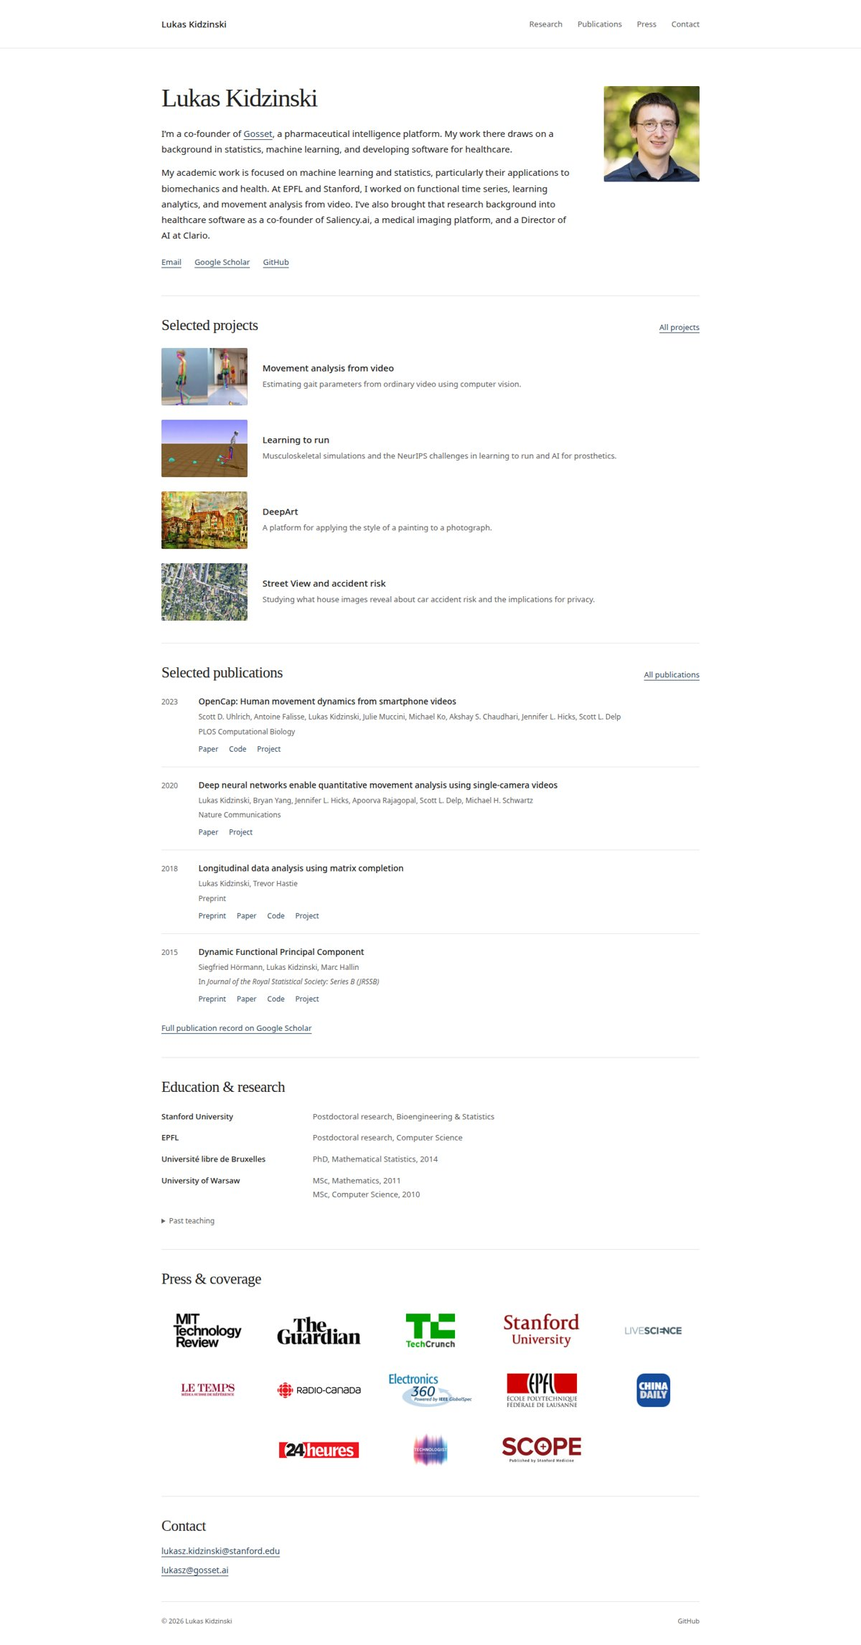
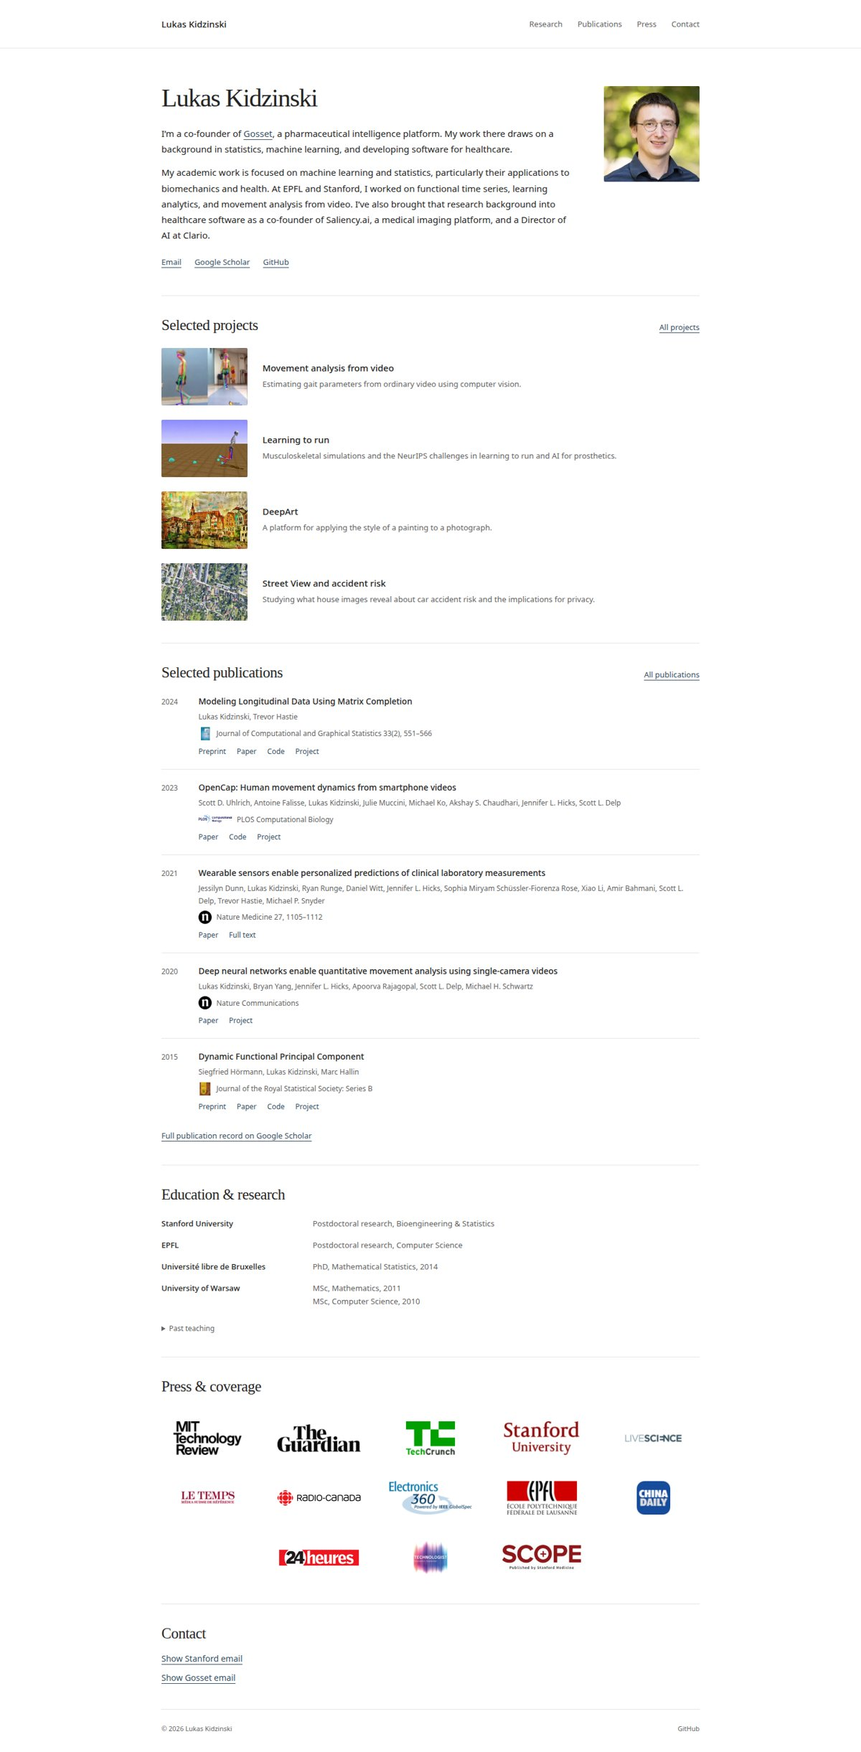
Protect contact links and refresh publication records

diff --git a/static/css/site.css b/static/css/site.css
@@ -33,8 +33,8 @@ h1, h2, h3 { font-weight: 500; line-height: 1.3; }
 .eyebrow { color: var(--muted); font-size: 12px; margin-bottom: 12px; }
 .accent { color: inherit; }
 .anchor-alias { display: block; scroll-margin-top: 24px; }
-.skip-link { position: fixed; top: -100px; left: 16px; padding: 10px 16px; z-index: 100; background: white; }
-.skip-link:focus { top: 12px; }
+.skip-link { position: fixed; top: 12px; left: 16px; width: 1px; height: 1px; overflow: hidden; clip-path: inset(50%); white-space: nowrap; z-index: 100; background: white; }
+.skip-link:focus { width: auto; height: auto; padding: 10px 16px; clip-path: none; }
 
 .site-header { border-bottom: 1px solid var(--line); }
 .header-inner { min-height: 80px; display: flex; align-items: center; justify-content: space-between; gap: 28px; }
@@ -74,7 +74,10 @@ summary { cursor: pointer; width: fit-content; }
 .publication-row h3 a { color: var(--ink); text-decoration: none; }
 .publication-row h3 a:hover { text-decoration: underline; }
 .publication-authors { color: var(--muted); font-size: 12px; line-height: 1.7; margin-top: 6px; }
-.publication-venue { color: var(--muted); font-size: 12px; margin-top: 3px; }
+.publication-venue { display: flex; align-items: center; gap: 8px; color: var(--muted); font-size: 12px; margin-top: 6px; }
+.journal-logo { width: 22px; height: 22px; flex: none; object-fit: contain; }
+.journal-logo--wordmark { width: 56px; }
+.citation-details { white-space: nowrap; }
 .publication-links { display: flex; flex-wrap: wrap; gap: 18px; margin-top: 8px; }
 .publication-links a { font-size: 12px; text-decoration: none; }
 .publication-links a:hover { text-decoration: underline; }
@@ -89,6 +92,9 @@ summary { cursor: pointer; width: fit-content; }
 .contact-section { padding-bottom: 40px; }
 .contact-section h2 { margin-bottom: 12px; }
 .contact-email { overflow-wrap: anywhere; font-size: 14px; }
+.email-reveal { border: 0; padding: 0; background: none; color: var(--link); font-size: 14px; text-decoration: underline; text-underline-offset: 4px; cursor: pointer; line-height: inherit; }
+.email-reveal:hover { color: #111; }
+.email-fallback { font-size: 14px; overflow-wrap: anywhere; }
 .contact-emails { list-style: none; margin: 0; padding: 0; }
 .contact-emails li + li { margin-top: 5px; }
 .site-footer { border-top: 1px solid var(--line); display: flex; justify-content: space-between; gap: 20px; padding-block: 22px 30px; font-size: 11px; color: var(--muted); }

diff --git a/layouts/home.html b/layouts/home.html
@@ -6,7 +6,7 @@
   <div class="intro-copy">
     <p id="work">I’m a co-founder of <a href="https://gosset.ai/">Gosset</a>, a pharmaceutical intelligence platform. My work there draws on a background in statistics, machine learning, and developing software for healthcare.</p>
     <p>{{ $home.intro }}</p>
-    <div class="profile-links"><a href="mailto:{{ site.Params.email }}">Email</a><a href="{{ site.Params.scholar }}">Google Scholar</a><a href="{{ site.Params.github }}">GitHub</a></div>
+    <div class="profile-links"><a href="#contact">Email</a><a href="{{ site.Params.scholar }}">Google Scholar</a><a href="{{ site.Params.github }}">GitHub</a></div>
   </div>
 </section>
 
@@ -26,7 +26,7 @@
 <span class="anchor-alias" id="publications" aria-hidden="true"></span>
 <section class="home-section shell" id="publications_selected" aria-labelledby="publications-title">
   <div class="section-heading"><h2 id="publications-title">Selected publications</h2><a class="text-link" href="{{ "publication/" | relURL }}">All publications</a></div>
-  <div class="publication-list">{{ range slice "opencap" "gait-video" "fcomplete" "dfpca" }}{{ with site.GetPage (printf "/publication/%s" .) }}{{ partial "publication-row.html" . }}{{ end }}{{ end }}</div>
+  <div class="publication-list">{{ range slice "fcomplete" "opencap" "wearable-sensors" "gait-video" "dfpca" }}{{ with site.GetPage (printf "/publication/%s" .) }}{{ partial "publication-row.html" . }}{{ end }}{{ end }}</div>
   <a class="text-link scholar-link" href="{{ site.Params.scholar }}">Full publication record on Google Scholar</a>
 </section>
 
@@ -52,6 +52,9 @@
 
 <section class="home-section contact-section shell" id="contact" aria-labelledby="contact-title">
   <h2 id="contact-title">Contact</h2>
-  <ul class="contact-emails"><li><a class="contact-email" href="mailto:{{ site.Params.email }}">{{ site.Params.email }}</a></li><li><a class="contact-email" href="mailto:{{ site.Params.email_secondary }}">{{ site.Params.email_secondary }}</a></li></ul>
+  <ul class="contact-emails">
+    <li>{{ partial "email.html" (dict "address" site.Params.email "label" "Show Stanford email") }}</li>
+    <li>{{ partial "email.html" (dict "address" site.Params.email_secondary "label" "Show Gosset email") }}</li>
+  </ul>
 </section>
 {{ end }}

diff --git a/layouts/page.html b/layouts/page.html
@@ -1,7 +1,7 @@
 {{ define "main" }}
 <article class="article shell">
   <a class="text-link back-link" href="{{ .CurrentSection.RelPermalink }}">← All {{ if eq .Section "publication" }}publications{{ else }}projects{{ end }}</a>
-  <header class="article-header"><p class="eyebrow">{{ if eq .Section "publication" }}Publication{{ else }}Research archive{{ end }} / {{ .Date.Year }}</p><h1>{{ .Title }}</h1>{{ with .Params.authors }}<p class="article-authors">{{ delimit . ", " }}</p>{{ end }}{{ with .Params.publication }}<p class="publication-venue">{{ if eq . "Under review" }}Preprint{{ else }}{{ . | markdownify }}{{ end }}</p>{{ end }}{{ if eq .Section "publication" }}{{ partial "publication-links.html" . }}{{ end }}</header>
+  <header class="article-header"><p class="eyebrow">{{ if eq .Section "publication" }}Publication{{ else }}Research archive{{ end }} / {{ .Date.Year }}</p><h1>{{ .Title }}</h1>{{ with .Params.authors }}<p class="article-authors">{{ delimit . ", " }}</p>{{ end }}{{ partial "publication-venue.html" . }}{{ if eq .Section "publication" }}{{ partial "publication-links.html" . }}{{ end }}</header>
   {{ with .Params.header.image }}<img class="article-cover" src="{{ printf "img/%s" . | relURL }}" alt="" width="1000" height="500">{{ end }}
   <div class="prose">{{ with .Params.abstract }}<h2>Abstract</h2><p>{{ . | markdownify }}</p>{{ end }}{{ .Content }}</div>
   {{ with .Params.url_code }}<a class="button article-cta" href="{{ . }}">Source code</a>{{ end }}

diff --git a/static/js/site.js b/static/js/site.js
@@ -1,3 +1,18 @@
+// Decode contact details only after an explicit request to reveal them.
+document.querySelectorAll('[data-email]').forEach(button => {
+  button.addEventListener('click', () => {
+    const address = atob(button.dataset.email);
+    const link = document.createElement('a');
+    link.className = 'contact-email';
+    link.href = `mailto:${address}`;
+    link.textContent = address;
+    button.replaceWith(link);
+    link.focus();
+  });
+  button.hidden = false;
+  button.parentElement.querySelector('.email-fallback').hidden = true;
+});
+
 const search = document.querySelector('#publication-search');
 if (search) {
   const rows = [...document.querySelectorAll('[data-publication]')];

diff --git a/layouts/_partials/publication-row.html b/layouts/_partials/publication-row.html
@@ -1,4 +1,4 @@
 <article class="publication-row" data-publication>
   <span class="publication-year">{{ .Date.Year }}</span>
-  <div><h3><a href="{{ .RelPermalink }}">{{ .Title }}</a></h3><p class="publication-authors">{{ delimit .Params.authors ", " }}</p><p class="publication-venue">{{ if eq .Params.publication "Under review" }}Preprint{{ else }}{{ .Params.publication | markdownify }}{{ end }}</p>{{ partial "publication-links.html" . }}</div>
+  <div><h3><a href="{{ .RelPermalink }}">{{ .Title }}</a></h3><p class="publication-authors">{{ delimit .Params.authors ", " }}</p>{{ partial "publication-venue.html" . }}{{ partial "publication-links.html" . }}</div>
 </article>

diff --git a/layouts/_partials/publication-venue.html b/layouts/_partials/publication-venue.html
@@ -1,0 +1,6 @@
+{{ with .Params.publication }}
+<div class="publication-venue">
+  {{ with $.Params.journal }}{{ with index hugo.Data.journals . }}<img class="journal-logo{{ if eq .kind "wordmark" }} journal-logo--wordmark{{ end }}" src="{{ printf "img/journals/%s" .image | relURL }}" width="{{ .width }}" height="{{ .height }}" alt="" loading="lazy">{{ end }}{{ end }}
+  <span>{{ if eq . "Under review" }}Preprint{{ else }}{{ . | markdownify }}{{ end }}{{ with $.Params.citation_details }} <span class="citation-details">{{ . }}</span>{{ end }}</span>
+</div>
+{{ end }}

diff --git a/layouts/_partials/publication-links.html b/layouts/_partials/publication-links.html
@@ -1,6 +1,7 @@
 <div class="publication-links">
   {{ with .Params.url_preprint }}<a href="{{ . }}">Preprint</a>{{ end }}
   {{ with .Params.url_pdf }}<a href="{{ . }}">Paper</a>{{ end }}
+  {{ with .Params.url_fulltext }}<a href="{{ . }}">Full text</a>{{ end }}
   {{ with .Params.url_code }}<a href="{{ . }}">Code</a>{{ end }}
   {{ with .Params.url_project }}<a href="{{ . }}">Project</a>{{ end }}
   {{ with .Params.url_dataset }}<a href="{{ . }}">Data</a>{{ end }}

diff --git a/layouts/_partials/email.html b/layouts/_partials/email.html
@@ -1,0 +1,2 @@
+<span class="email-fallback">{{ replace (replace .address "@" " [at] ") "." " [dot] " }}</span>
+<button class="email-reveal" type="button" data-email="{{ .address | base64Encode }}" hidden>{{ .label }}</button>

diff --git a/content/publication/fcomplete.md b/content/publication/fcomplete.md
@@ -1,67 +1,24 @@
 +++
-title = "Longitudinal data analysis using matrix completion"
-date = "2018-11-15"
-
-# Authors. 
+title = "Modeling Longitudinal Data Using Matrix Completion"
+date = "2024-04-02"
 authors = ["Lukas Kidzinski", "Trevor Hastie"]
-
-# Publication type.
-# Legend:
-# 0 = Uncategorized
-# 1 = Conference proceedings
-# 2 = Journal
-# 3 = Work in progress
-# 4 = Technical report
-# 5 = Book
-# 6 = Book chapter
+publication = "Journal of Computational and Graphical Statistics"
+publication_short = "JCGS"
+journal = "jcgs"
+citation_details = "33(2), 551–566"
+published_online = "2023-11-15"
 publication_types = ["2"]
-
-# Publication name and optional abbreviated version.
-publication = "Under review"
-publication_short = "Under review"
-
-# Abstract and optional shortened version.
-abstract = "In clinical practice and biomedical research, measurements are often collected sparsely and irregularly in time while the data acquisition is expensive and inconvenient. Examples include measurements of spine bone mineral density, cancer growth through mammography or biopsy, a progression of defect of vision, or assessment of gait in patients with neurological disorders. Since the data collection is often costly and inconvenient, estimation of progression from sparse observations is of great interest for practitioners.From the statistical standpoint, such data is often analyzed in the context of a mixed-effect model where time is treated as both random and fixed effect. Alternatively, researchers analyze Gaussian processes or functional data where observations are assumed to be drawn from a certain distribution of processes. These models are flexible but rely on probabilistic assumptions and require very careful implementation. In this study, we propose an alternative elementary framework for analyzing longitudinal data, relying on matrix completion. Our method yields point estimates of progression curves by iterative application of the SVD. Our framework covers multivariate longitudinal data, regression and can be easily extended to other settings. We apply our methods to understand trends of progression of motor impairment in children with Cerebral Palsy. Our model approximates individual progression curves and explains 30% of the variability. Low-rank representation of progression trends enables discovering that subtypes of Cerebral Palsy exhibit different progression trends."
-abstract_short = "In clinical practice and biomedical research, measurements are often collected sparsely and irregularly in time while the data acquisition is expensive and inconvenient. We propose an alternative elementary framework for analyzing longitudinal data, relying on matrix completion."
-
-# Featured image thumbnail (optional)
-image_preview = ""
-
-# Is this a selected publication? (true/false)
 selected = true
-
-# Projects (optional).
-#   Associate this publication with one or more of your projects.
-#   Simply enter the filename (excluding '.md') of your project file in `content/project/`.
-projects = ["longitudinal-data"]
-
-# Links (optional).
-url_pdf = "https://arxiv.org/pdf/1809.08771.pdf"
+abstract_short = "Using matrix completion to estimate smooth trajectories from sparse, irregular longitudinal measurements."
+url_pdf = "https://doi.org/10.1080/10618600.2023.2257257"
 url_preprint = "https://arxiv.org/abs/1809.08771"
 url_code = "https://github.com/kidzik/fcomplete"
-# url_dataset = "#"
-url_project = "https://github.com/kidzik/fcomplete"
-# url_slides = "#"
-# url_video = "#"
-# url_poster = "#"
-# url_source = "#"
-
-# Custom links (optional).
-#   Uncomment line below to enable. For multiple links, use the form `[{...}, {...}, {...}]`.
-# url_custom = [{name = "Custom Link", url = "http://example.org"}]
-
-# Does the content use math formatting?
-math = true
-
-# Does the content use source code highlighting?
-highlight = true
-
-# Featured image
-# Place your image in the `static/img/` folder and reference its filename below, e.g. `image = "example.jpg"`.
-[header]
-# image = "headers/bubbles-wide.jpg"
-caption = "My caption :smile:"
-
+url_project = "/project/longitudinal-data/"
+projects = ["longitudinal-data"]
 +++
 
-<!-- More detail can easily be written here using *Markdown* and $\rm \LaTeX$ math code. -->
+We use matrix completion to estimate smooth individual trajectories from sparse and irregular longitudinal measurements. The framework also supports multivariate measurements and regression.
+
+Published in *Journal of Computational and Graphical Statistics*, **33**(2), 551–566 (2024), following online publication on November 15, 2023. [Read the published paper](https://doi.org/10.1080/10618600.2023.2257257).
+
+Earlier versions circulated as *Longitudinal data analysis using matrix completion*. The [preprint](https://arxiv.org/abs/1809.08771) and [fcomplete package](https://github.com/kidzik/fcomplete) remain available.

diff --git a/docs/validation.md b/docs/validation.md
@@ -1,16 +1,19 @@
-# Redesign validation
+# Website validation
 
 Checked locally on October 15, 2026 using Hugo 0.168.0 and Chromium through Playwright.
 
 - Production build passes with `--panicOnWarning` and no warnings.
-- All 330 internal links, asset references, and fragments resolve across 24 HTML pages.
-- All 24 pages return HTTP 200 and contain one H1 at widths of 320, 390, 768, 1024, and 1440 pixels (120 layout checks). No horizontal page overflow.
-- No browser JavaScript errors during those checks.
-- Navigation is always visible on mobile. All 13 press logos are linked and have outlet names as accessible labels.
-- Publication search handles year, author, case, Polish diacritics, empty results, and clearing the query across 14 records.
-- Navigation, press logos, contact email links, and publications remain available with JavaScript disabled.
-- The interface has no animated effects or smooth scrolling.
-- Homepage images load, the canonical URL points to `https://kidzinski.com/`, and the page makes no third-party resource requests.
-- The original six project and twelve publication routes remain; two verified publication pages are added. Historical homepage section anchors are retained.
+- All 366 internal links, asset references, and fragments resolve across 25 HTML pages.
+- All 25 pages return HTTP 200 and contain one H1 at widths of 320, 390, 768, 1024, and 1440 pixels (125 layout checks). No horizontal page overflow or browser JavaScript errors.
+- The homepage shows five selected publications, including the Nature Medicine paper with Jessilyn Dunn and the published JCGS matrix-completion paper. Full publication search covers 15 records and handles author names, year, case, diacritics, empty results, and clearing the query.
+- The Nature Medicine author list, 2021 date, equal-contribution note, DOI, and author-manuscript link are verified against the paper. The matrix-completion record uses the final title, JCGS 33(2), 551–566 (2024), DOI, and November 15, 2023 online-publication note.
+- All selected journal marks load beside visible journal names. The full venue component is shared by the homepage, archive, and publication pages.
+- Neither contact address appears in plaintext in generated HTML, feeds, or JavaScript. There are no mailto links in the initial homepage DOM.
+- Both email-reveal buttons work by mouse or native keyboard activation; Enter and Space reveal the correct address, create the correct mailto link, and transfer focus to it. No email client opens merely from revealing an address.
+- With JavaScript disabled, readable `[at]` / `[dot]` contact addresses are visible and the inactive reveal buttons remain hidden. Navigation and publications still work.
+- The anti-harvesting measure is deliberately lightweight. Public source, older pages, and archived documents may still contain contact information; this does not claim to prevent determined scraping or stop existing spam.
+- All 13 press logos remain near the bottom, with the Stanford email first and Gosset email second in the contact section.
+- Homepage images load, the canonical URL points to `https://kidzinski.com/`, and images and scripts are served locally.
+- The original six project and twelve publication routes remain; three verified publication pages have been added. Historical homepage section anchors and the original CV URL are retained.
 
-The biography opens with a single inline mention of Gosset, followed by research and previous work. All 13 original coverage links appear as a logo grid after education and before contact. The Stanford email is first and `lukasz@gosset.ai` is second. The latest homepage update was checked at all five widths above, including logo loading, section order, both email targets, and no-JavaScript rendering. The homepage, archive, and representative mobile layouts were also visually reviewed. Screenshots are in [previews](previews/). These checks do not verify the availability of every external link or remote image in the legacy research archive. No production deployment was performed.
+The homepage, archive, publication pages, and mobile layouts were visually reviewed. Screenshots are in [previews](previews/). External links and remote images in the legacy research archive have not all been revalidated.

diff --git a/README.md b/README.md
@@ -24,6 +24,7 @@ Output goes to `public/`, inside this repository. Builds no longer write into a 
 
 - `data/home.toml`: personal introduction and featured research projects.
 - `data/press.toml`: all 13 press outlets, their original logos, and coverage links.
+- `data/journals.toml`: local journal marks and cover badges displayed beside journal names.
 - `layouts/home.html`: biography, press, research, education, contact, and featured publication selection.
 - `content/project/`: original research pages, with their existing URLs.
 - `content/publication/`: publication records, authors, abstracts, and paper/code links.
@@ -33,7 +34,7 @@ Output goes to `public/`, inside this repository. Builds no longer write into a 
 
 The older Academic homepage widgets, theme tutorials, and sample talks remain on disk for reference and are excluded from the new build. The original CV remains available at `/Lukasz-Kidzinski-CV.pdf`; it is not advertised as a current CV. Existing homepage anchors for projects, publications, about, teaching, and contact remain available.
 
-The homepage uses a plain introduction, a small portrait, and compact research and publication lists. The biography opens with a single mention of Gosset, then describes the research background. All 13 press logos appear near the bottom, after education and before the two contact email addresses. Navigation is always visible, including on mobile, and works without JavaScript. Publication search progressively enhances the archive. Project videos link to YouTube without loading third-party embeds.
+The homepage uses a plain introduction, a small portrait, and compact research and publication lists. The biography opens with a single mention of Gosset, then describes the research background. All 13 press logos appear near the bottom, after education and before the contact section. Each email address is revealed only after activating its labeled button; the initial generated HTML has neither the plaintext address nor its mailto link. With JavaScript disabled or unavailable, a readable `[at]` / `[dot]` version is shown. This is lightweight obfuscation for basic harvesting, not a barrier to scrapers that decode public source or interact with the page. Navigation is always visible, including on mobile, and works without JavaScript. Publication search progressively enhances the archive. Project videos link to YouTube without loading third-party embeds.
 
 ## Publishing
 
@@ -48,5 +49,8 @@ The research archive, education, original portrait, project imagery, publication
 - [Gosset](https://gosset.ai/): current co-founder role, previous Director of AI role at Clario, and current platform description.
 - [OpenCap, PLOS Computational Biology (2023)](https://doi.org/10.1371/journal.pcbi.1011462): publication details and equal contribution note.
 - [Single-camera movement analysis, Nature Communications (2020)](https://www.nature.com/articles/s41467-020-17807-z): publication details and equal contribution note.
+- [Wearable sensors, Nature Medicine (2021)](https://doi.org/10.1038/s41591-021-01339-0) and [author manuscript](https://pmc.ncbi.nlm.nih.gov/articles/PMC8293303/): authors, equal contribution, and publication details.
+- [Matrix completion, JCGS 33(2), 551–566 (2024)](https://doi.org/10.1080/10618600.2023.2257257) and [Crossref metadata](https://api.crossref.org/works/10.1080/10618600.2023.2257257): final title and DOI, November 15, 2023 online publication, and April 2, 2024 issue date. The existing `/publication/fcomplete/` URL is preserved.
+- [Journal asset sources](docs/journal-assets.md): official marks and society-provided cover badges stored locally.
 
 Older publication records are retained; a historical “Under review” label is displayed as “Preprint” where the source already links to a preprint. This is a selected archive, not a complete or automatically synchronized bibliography; Google Scholar is linked for the full record.

diff --git a/content/publication/dysgraphia.md b/content/publication/dysgraphia.md
@@ -1,4 +1,5 @@
 +++
+journal = "npj-digital-medicine"
 title = "Automated human-level diagnosis of dysgraphia using a consumer tablet"
 date = "2018-11-05"
 
@@ -17,8 +18,8 @@ authors = ["Thibault Asselborn", "Thomas Gargot", "Lukas Kidzinski", "Wafa Johal
 publication_types = ["2"]
 
 # Publication name and optional abbreviated version.
-publication = "In *Nature Partner Journals: Digital Medicine*"
-publication_short = "In *npj Digital medicine*"
+publication = "npj Digital Medicine"
+publication_short = "npj Digital Medicine"
 
 # Abstract and optional shortened version.
 abstract = "The academic and behavioral progress of children is associated with the timely development of reading and writing skills. Dysgraphia, characterized as a handwriting learning disability, is usually associated with dyslexia, developmental coordination disorder (dyspraxia), or attention deficit disorder, which are all neuro-developmental disorders. Dysgraphia can seriously impair children in their everyday life and require therapeutic care. Early detection of handwriting difficulties is, therefore, of great importance in pediatrics. Since the beginning of the 20th century, numerous handwriting scales have been developed to assess the quality of handwriting. However, these tests usually involve an expert investigating visually sentences written by a subject on paper, and, therefore, they are subjective, expensive, and scale poorly. Moreover, they ignore potentially important characteristics of motor control such as writing dynamics, pen pressure, or pen tilt. However, with the increasing availability of digital tablets, features to measure these ignored characteristics are now potentially available at scale and very low cost. In this work, we developed a diagnostic tool requiring only a commodity tablet. To this end, we modeled data of 298 children, including 56 with dysgraphia. Children performed the BHK test on a digital tablet covered with a sheet of paper. We extracted 53 handwriting features describing various aspects of handwriting, and used the Random Forest classifier to diagnose dysgraphia. Our method achieved 96.6% sensibility and 99.2% specificity. Given the intra-rater and inter-rater levels of agreement in the BHK test, our technique has comparable accuracy for experts and can be deployed directly as a diagnostics tool."
